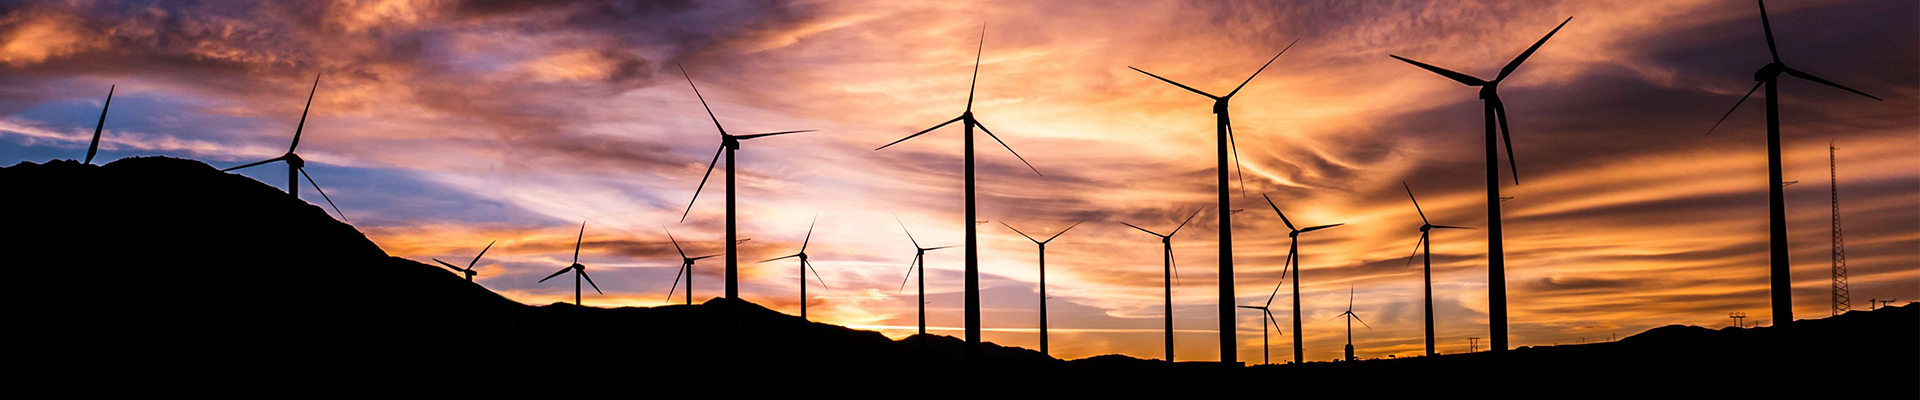
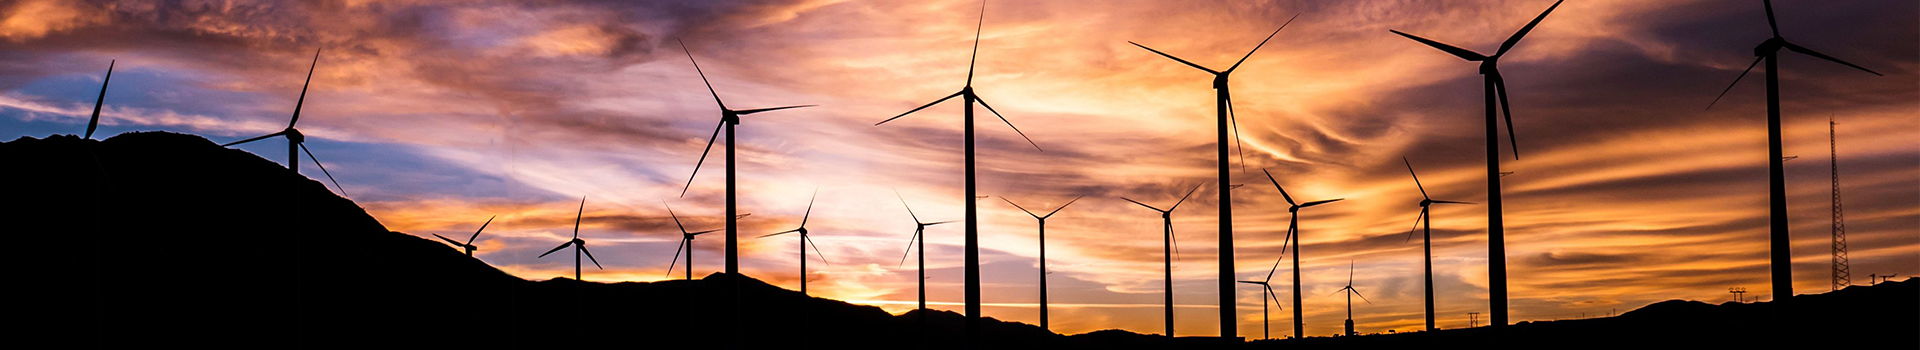
Reduced size of picture for Paris Accords and adjusted title positioning
Title positioning adjustment for "Paris Accords"

diff --git a/ybhs/ProjectCSS.css b/ybhs/ProjectCSS.css
@@ -164,7 +164,7 @@ iframe
 {
     font-size: 7vw;
     color: white;
-    margin-top: 3vw;
+    margin-top: 2.5vw;
     -webkit-text-stroke: 0.15vw black;
 
     position: absolute;
